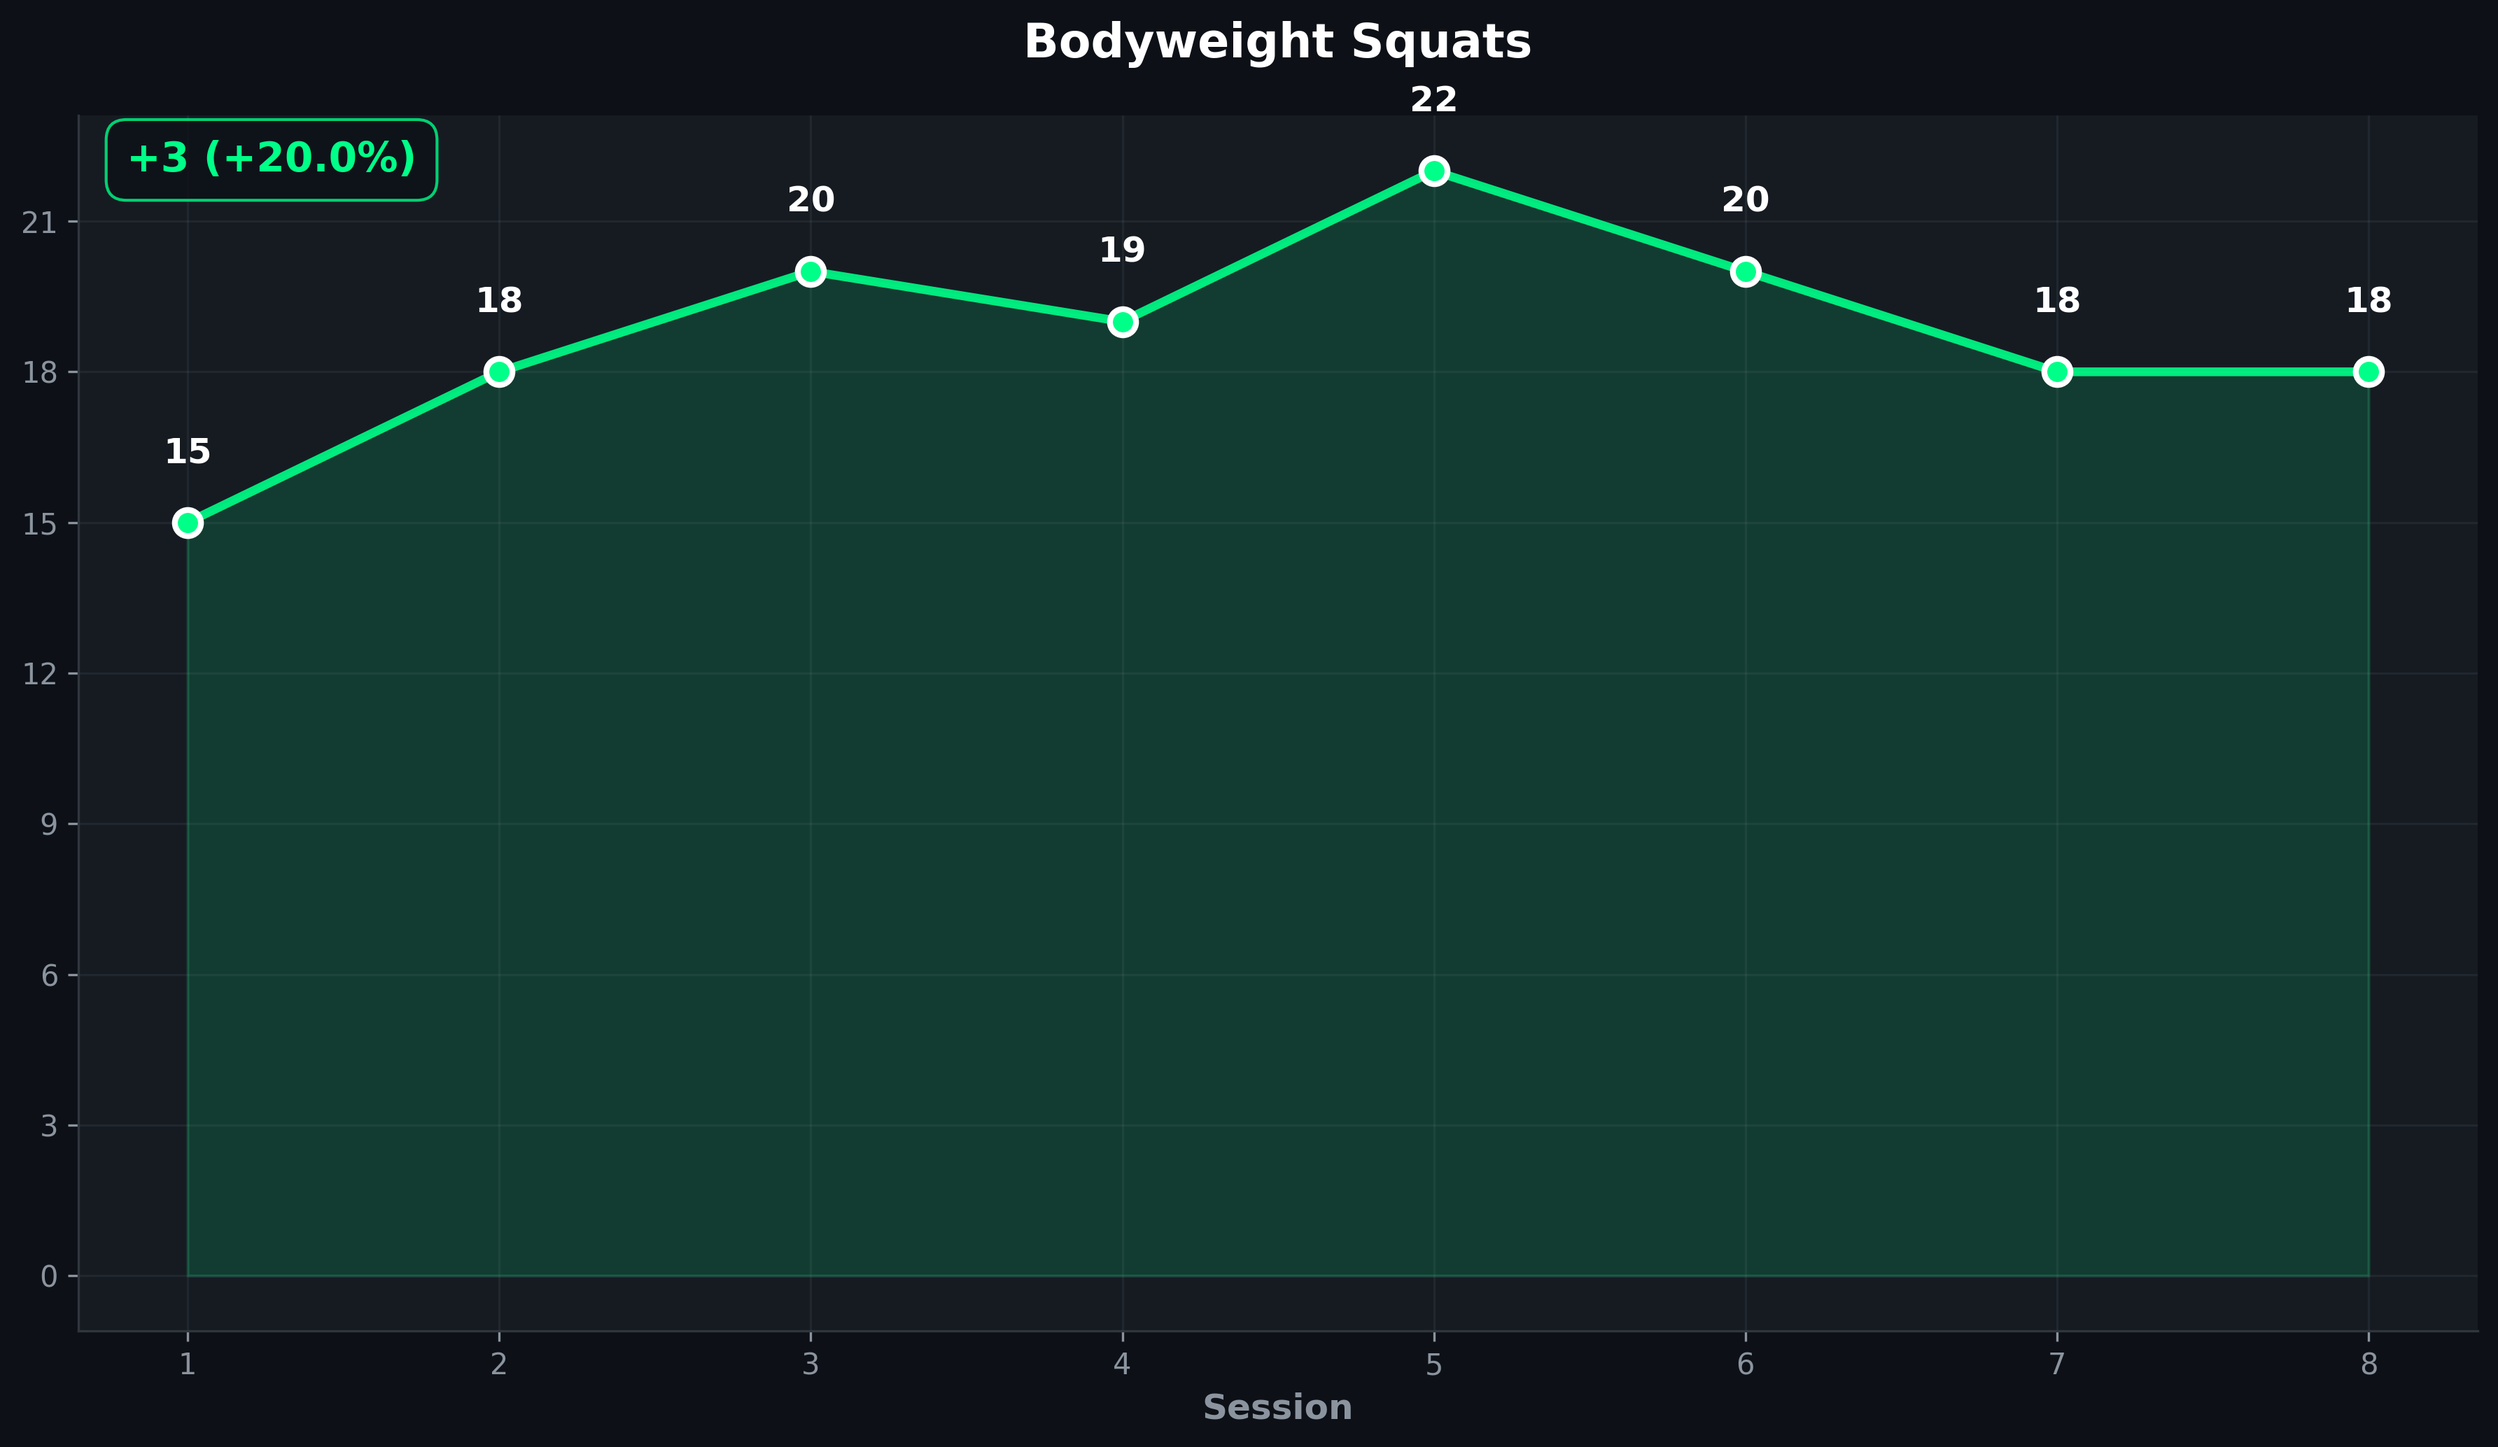
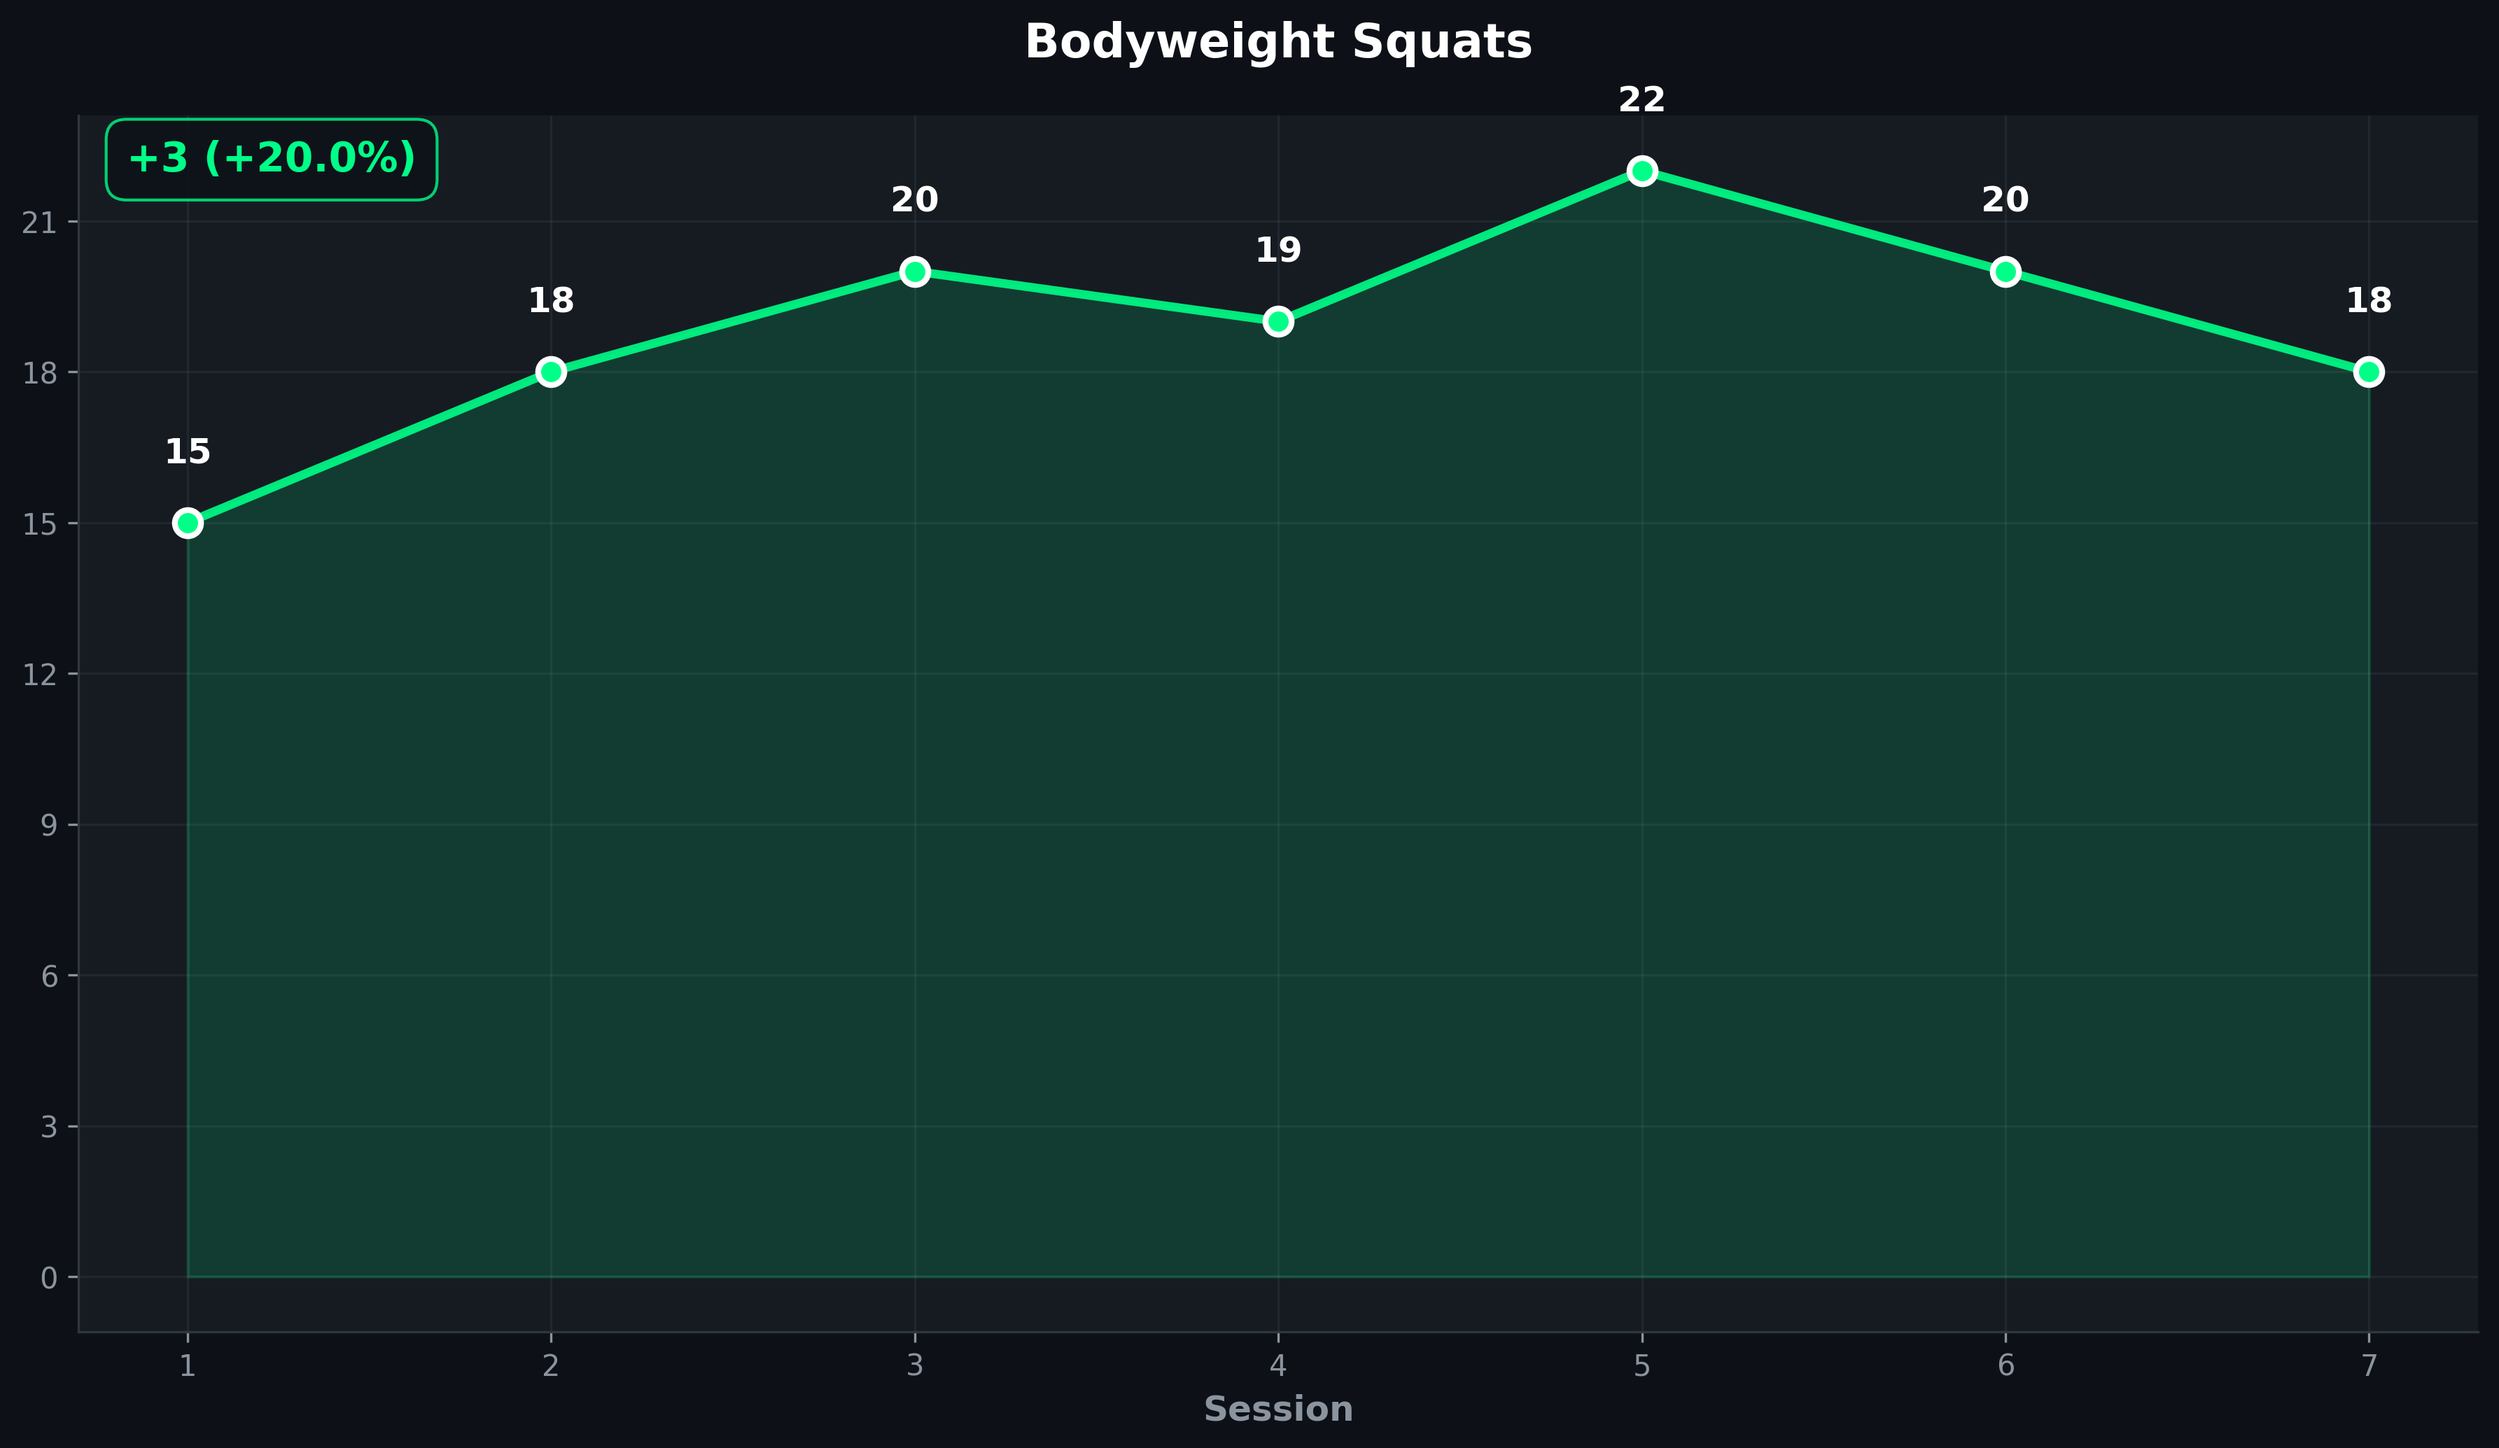
Fix duplicate values in charts and add cache-busting
- Fixed chart generation to avoid showing duplicate current values
- Added update_readme.py script to bust image cache with timestamps
- Updated all workflows to include README.md in commits
- Changed tagline to vibecoder-friendly version

Changed region(s): [[0.0933, 0.0619, 0.9641, 0.3404], [0.311, 0.1238, 0.3732, 0.1547], [0.4976, 0.9594, 0.5287, 0.9903]]

diff --git a/scripts/update_readme.py b/scripts/update_readme.py
@@ -1,0 +1,30 @@
+#!/usr/bin/env python3
+"""
+Update README with cache-busting timestamps for chart images
+"""
+
+from pathlib import Path
+from datetime import datetime
+import re
+
+def update_readme_timestamps():
+    """Add/update timestamps in README image URLs to bust cache"""
+    readme_path = Path(__file__).parent.parent / "README.md"
+    readme_content = readme_path.read_text()
+
+    timestamp = datetime.now().strftime("%Y%m%d%H%M%S")
+
+    # Pattern to match: ![Alt Text](charts/filename.png) or ![Alt Text](charts/filename.png?t=timestamp)
+    pattern = r'(\!\[.*?\]\(charts/.*?\.png)(\?t=\d+)?(\))'
+    replacement = rf'\1?t={timestamp}\3'
+
+    updated_content = re.sub(pattern, replacement, readme_content)
+
+    if updated_content != readme_content:
+        readme_path.write_text(updated_content)
+        print(f"✓ README updated with timestamp: {timestamp}")
+    else:
+        print("✓ README already up to date")
+
+if __name__ == "__main__":
+    update_readme_timestamps()

diff --git a/scripts/generate_bw_charts.py b/scripts/generate_bw_charts.py
@@ -6,6 +6,7 @@ Generates charts for bodyweight exercises (reps only)
 
 import matplotlib.pyplot as plt
 from pathlib import Path
+from datetime import datetime
 from common_utils import (
     load_data, save_data, setup_chart_style, add_change_indicator,
     get_trend_color, COLORS, DISPLAY_NAMES, CHARTS_DIR
@@ -41,7 +42,13 @@ def generate_chart(exercise_key, exercise_data):
     """Generate crypto-style chart for bodyweight exercise"""
     history = exercise_data['history']
     current = exercise_data['current']
-    all_values = history + [current]
+
+    # Only add current if it's different from last history value
+    if not history or history[-1] != current:
+        all_values = history + [current]
+    else:
+        all_values = history
+
     x_values = list(range(1, len(all_values) + 1))
 
     fig, ax = plt.subplots(figsize=(12, 7), facecolor='#0d1117')

diff --git a/scripts/generate_gym_charts.py b/scripts/generate_gym_charts.py
@@ -47,7 +47,13 @@ def generate_chart(exercise_key, exercise_data):
     current_reps = exercise_data['current_reps']
 
     current_entry = {"weight": current_weight, "reps": current_reps}
-    all_entries = history + [current_entry]
+
+    # Only add current if it's different from last history entry
+    if not history or history[-1] != current_entry:
+        all_entries = history + [current_entry]
+    else:
+        all_entries = history
+
     x_values = list(range(1, len(all_entries) + 1))
 
     # Extract weights for plotting

diff --git a/README.md b/README.md
@@ -1,8 +1,8 @@
 # Lifts
 
-> Crypto-style workout tracking with automated chart generation via GitHub Actions
+> Track lifts, push commits, merge gains - The vibecoder's workout tracker
 
-**[📖 How to Use](#how-to-use)**
+**[How to Use](#how-to-use)**
 
 ---
 
@@ -13,13 +13,13 @@
 <td width="50%">
 
 ### Pull Ups
-![Pull Ups](charts/pull_ups.png)
+![Pull Ups](charts/pull_ups.png?t=20251017131116)
 
 </td>
 <td width="50%">
 
 ### Dips
-![Dips](charts/dips.png)
+![Dips](charts/dips.png?t=20251017131116)
 
 </td>
 </tr>
@@ -27,13 +27,13 @@
 <td width="50%">
 
 ### Pushups
-![Pushups](charts/pushups.png)
+![Pushups](charts/pushups.png?t=20251017131116)
 
 </td>
 <td width="50%">
 
 ### Bodyweight Squats
-![Bodyweight Squats](charts/bodyweight_squats.png)
+![Bodyweight Squats](charts/bodyweight_squats.png?t=20251017131116)
 
 </td>
 </tr>
@@ -46,13 +46,13 @@
 <td width="50%">
 
 ### Bench Press
-![Bench Press](charts/bench_press.png)
+![Bench Press](charts/bench_press.png?t=20251017131116)
 
 </td>
 <td width="50%">
 
 ### Squat
-![Squat](charts/squat.png)
+![Squat](charts/squat.png?t=20251017131116)
 
 </td>
 </tr>
@@ -60,13 +60,13 @@
 <td width="50%">
 
 ### Deadlift
-![Deadlift](charts/deadlift.png)
+![Deadlift](charts/deadlift.png?t=20251017131116)
 
 </td>
 <td width="50%">
 
 ### Overhead Press
-![Overhead Press](charts/overhead_press.png)
+![Overhead Press](charts/overhead_press.png?t=20251017131116)
 
 </td>
 </tr>
